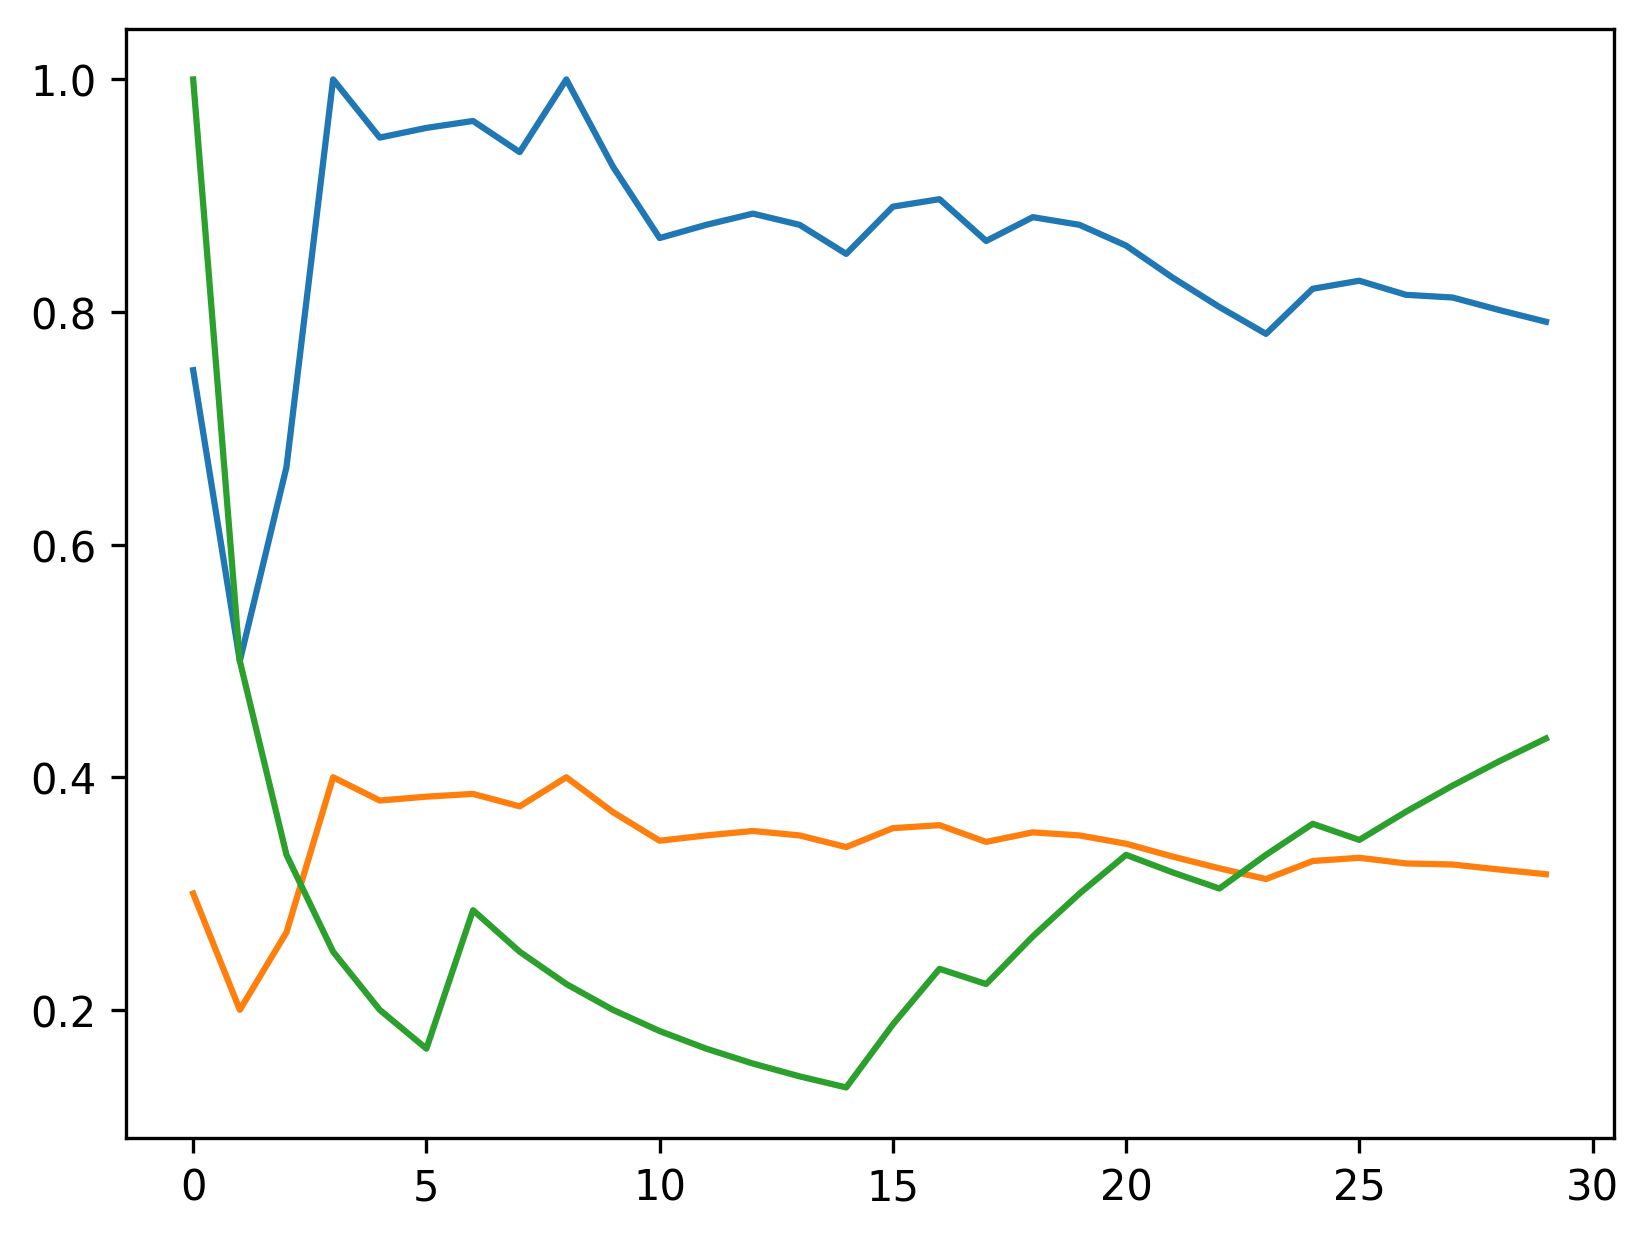
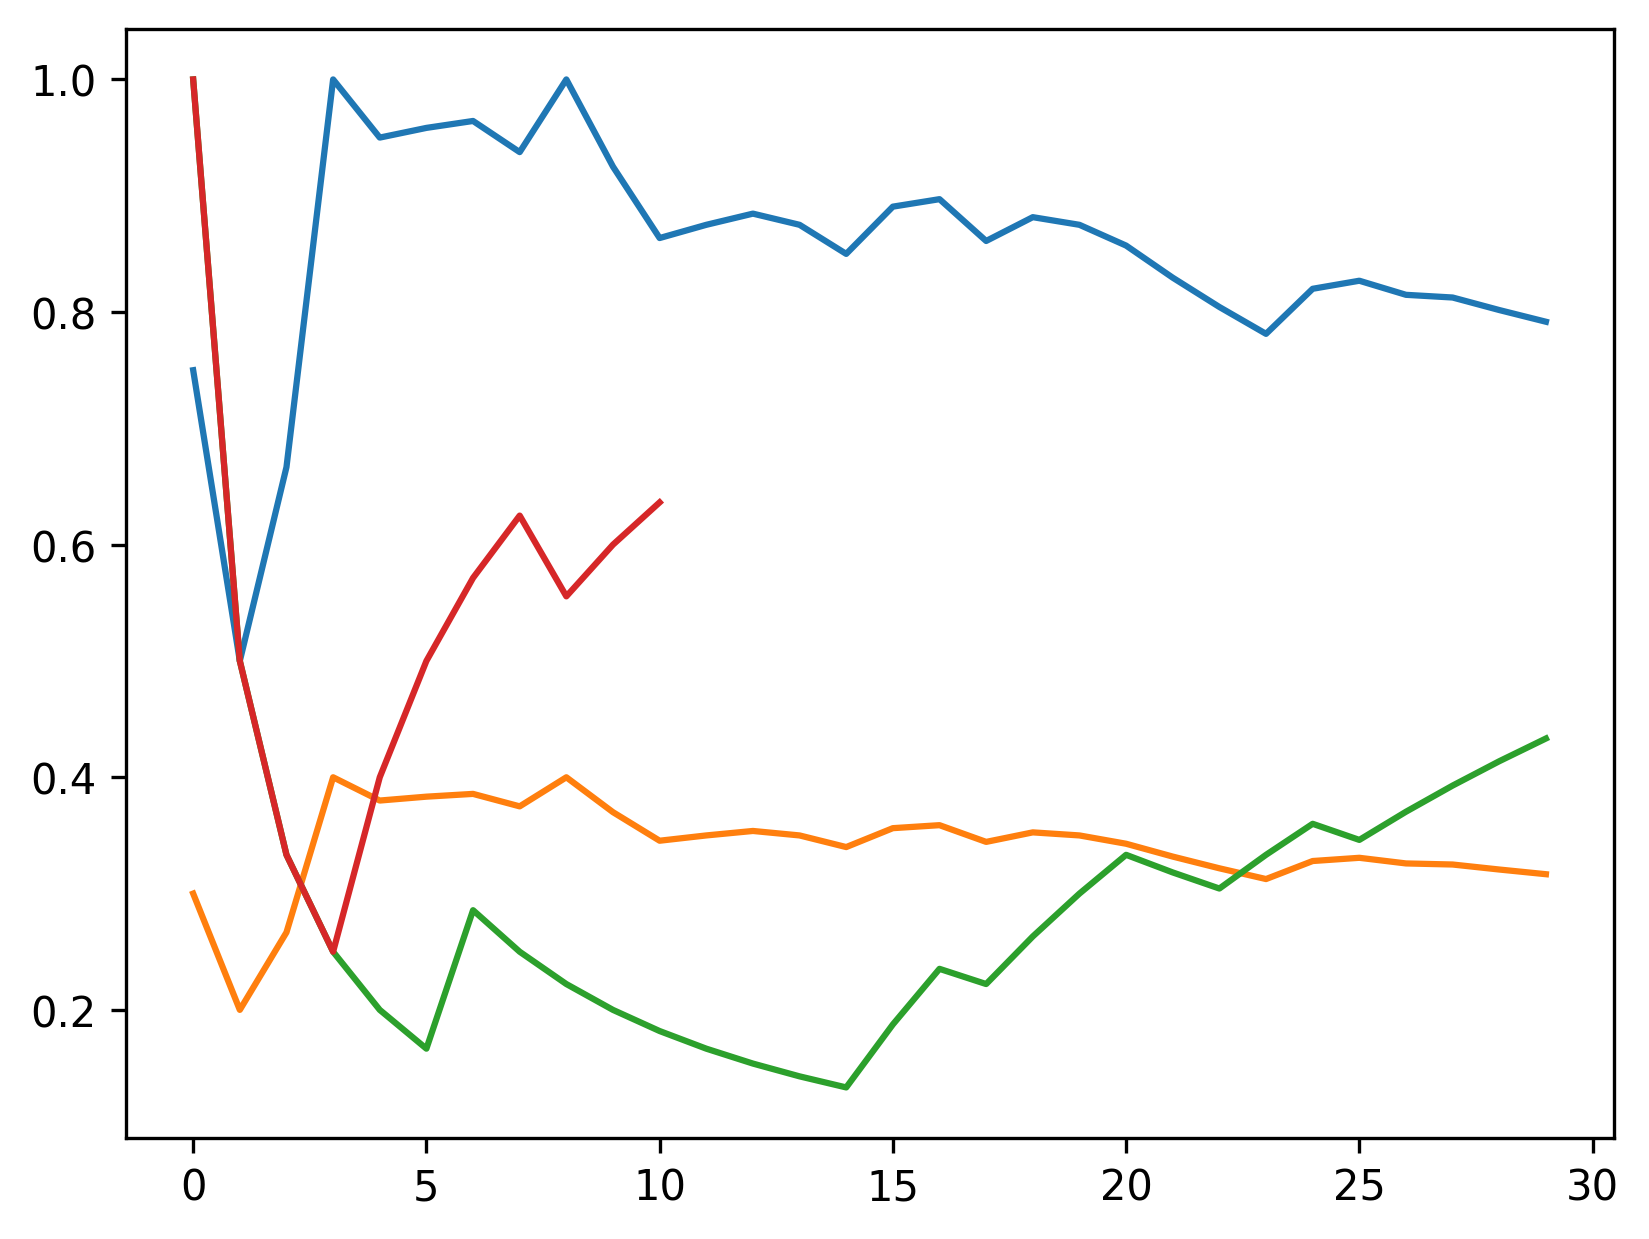
adding all dataframes to visualization

diff --git a/src/chat/utils/rag.py b/src/chat/utils/rag.py
@@ -254,12 +254,12 @@ class RagMetrics():
     
     def result_df(self,name:str):
         
-        dfs = {
-            'result_df':self.utils.jsonl_reader(path=constants.data_path(name)['result']),
-            'result_history_df' : self.utils.jsonl_reader(path=constants.data_path(name)['result_history'])
+        return {
+            'ret_result_df':self.utils.jsonl_reader(path=constants.data_path(name)['result']),
+            'ret_result_history_df' : self.utils.jsonl_reader(path=constants.data_path(name)['result_history']),
+            'llm_result_df':self.utils.jsonl_reader(path=constants.data_path(name)['llm_result']),
+            'llm_result_history_df' : self.utils.jsonl_reader(path=constants.data_path(name)['result_llm_history'])
         }
-
-        return dfs
 
     def retrieveal_metrics(self,test_data_path:str):
         from chat.services import hybrid_search,similar_category
@@ -414,7 +414,7 @@ class RagMetrics():
                                 top_k=self.top_k,
                                 beta=self.beta
                                 )
-                print(f"---\n\nHR: {hybrid_search_result}\n\n---")
+                # print(f"---\n\nHR: {hybrid_search_result}\n\n---")
                 
                 # have all chunks from retreival here available and then send with question to an LLM and ask LLM is the answer correct or its producing wrong or doing hallucination, this can be done with a more advanced model.
 
@@ -437,9 +437,7 @@ class RagMetrics():
                 judge_result = self.llm.openai_classifier(user_prompt,'judge')
                 validator = self.llm.get_validator('judge')
                 judge_result  = validator(judge_result.choices[0].message.content).result
-                print(f"""\n
-                        👨🏼⚖️ : {judge_result}\n\n-------------------\n
-                    """)
+                print(f"""👨🏼⚖️ : {judge_result}""")
                 
 
                 total_query+=1
@@ -451,7 +449,7 @@ class RagMetrics():
                 data = {'accuracy':accuracy}
                 file.write(json.dumps(data) + "\n")
 
-                if index == 2:
+                if index == 10:
                     break
 
         result_llm_history_file_path = constants.data_path('telmart')['result_llm_history']
@@ -474,18 +472,24 @@ class RagMetrics():
 
         # try:
         dfs = self.result_df(name)
-        result_df = dfs['result_df']
-        result_history_df = dfs['result_history_df']
-        print(f"Result:\n{result_df}\n\n---\n\nResult History:\n{result_history_df} ")
+        ret_result_df = dfs['ret_result_df']
+        ret_result_history_df = dfs['ret_result_history_df']
+        llm_result_df = dfs['llm_result_df']
+        llm_result_history_df = dfs['llm_result_history_df']
+
+
+        print(f"Result:\n{ret_result_df}\n\n---\n\nResult History:\n{ret_result_history_df} ")
 
         plot_path = constants.data_path('telmart')['result_plots']
         if not os.path.exists(plot_path):
             os.mkdir(plot_path)
 
-        # plots:
-        plot_keys = ['recall','precision','map']
-        for plot_key in plot_keys:
-            plt.plot(result_df[plot_key])
+
+        for colum in ret_result_df.columns.to_list():
+            plt.plot(ret_result_df[colum.__str__()])
+
+        for colum in llm_result_df.columns.to_list():
+            plt.plot(llm_result_df[colum.__str__()])
 
         plt.savefig(f"{plot_path}/retrieval.png", dpi=300, bbox_inches='tight')
 

diff --git a/src/chat/management/commands/rag_evaluation.py b/src/chat/management/commands/rag_evaluation.py
@@ -26,9 +26,9 @@ class Command(BaseCommand):
 
         # try:
         # retrieveal_metrics = ragmetrics.retrieveal_metrics(ret_test_data_path, top_k=10) # this should find the same document and not the same category (or maybe both)
-        hallucination = ragmetrics.llm_hallucination(llm_test_data_path)
+        # hallucination = ragmetrics.llm_hallucination(llm_test_data_path)
 
-        # visualization = ragmetrics.visualization('telmart')
+        visualization = ragmetrics.visualization('telmart')
 
         # except Exception as e:
         #     raise CommandError(f"Error: {e}")

diff --git a/src/chat/services.py b/src/chat/services.py
@@ -483,10 +483,8 @@ def fetch_content_from_document(document_object:Document):
     """
 
     if type(document_object.document_source.content_object) is TextContent:
-        logger.info("Content type is TextContent")
         return document_object.document_source.content_object.content
     elif type(document_object.document_source.content_object) is AudioContent:
-        logger.info("Content type is AudioContent")
         if not document_object.document_source.content_object.trascription:
             logger.info(f"file path: {document_object.document_source.content_object.file.path}")
             trascription = transcriber(document_object)